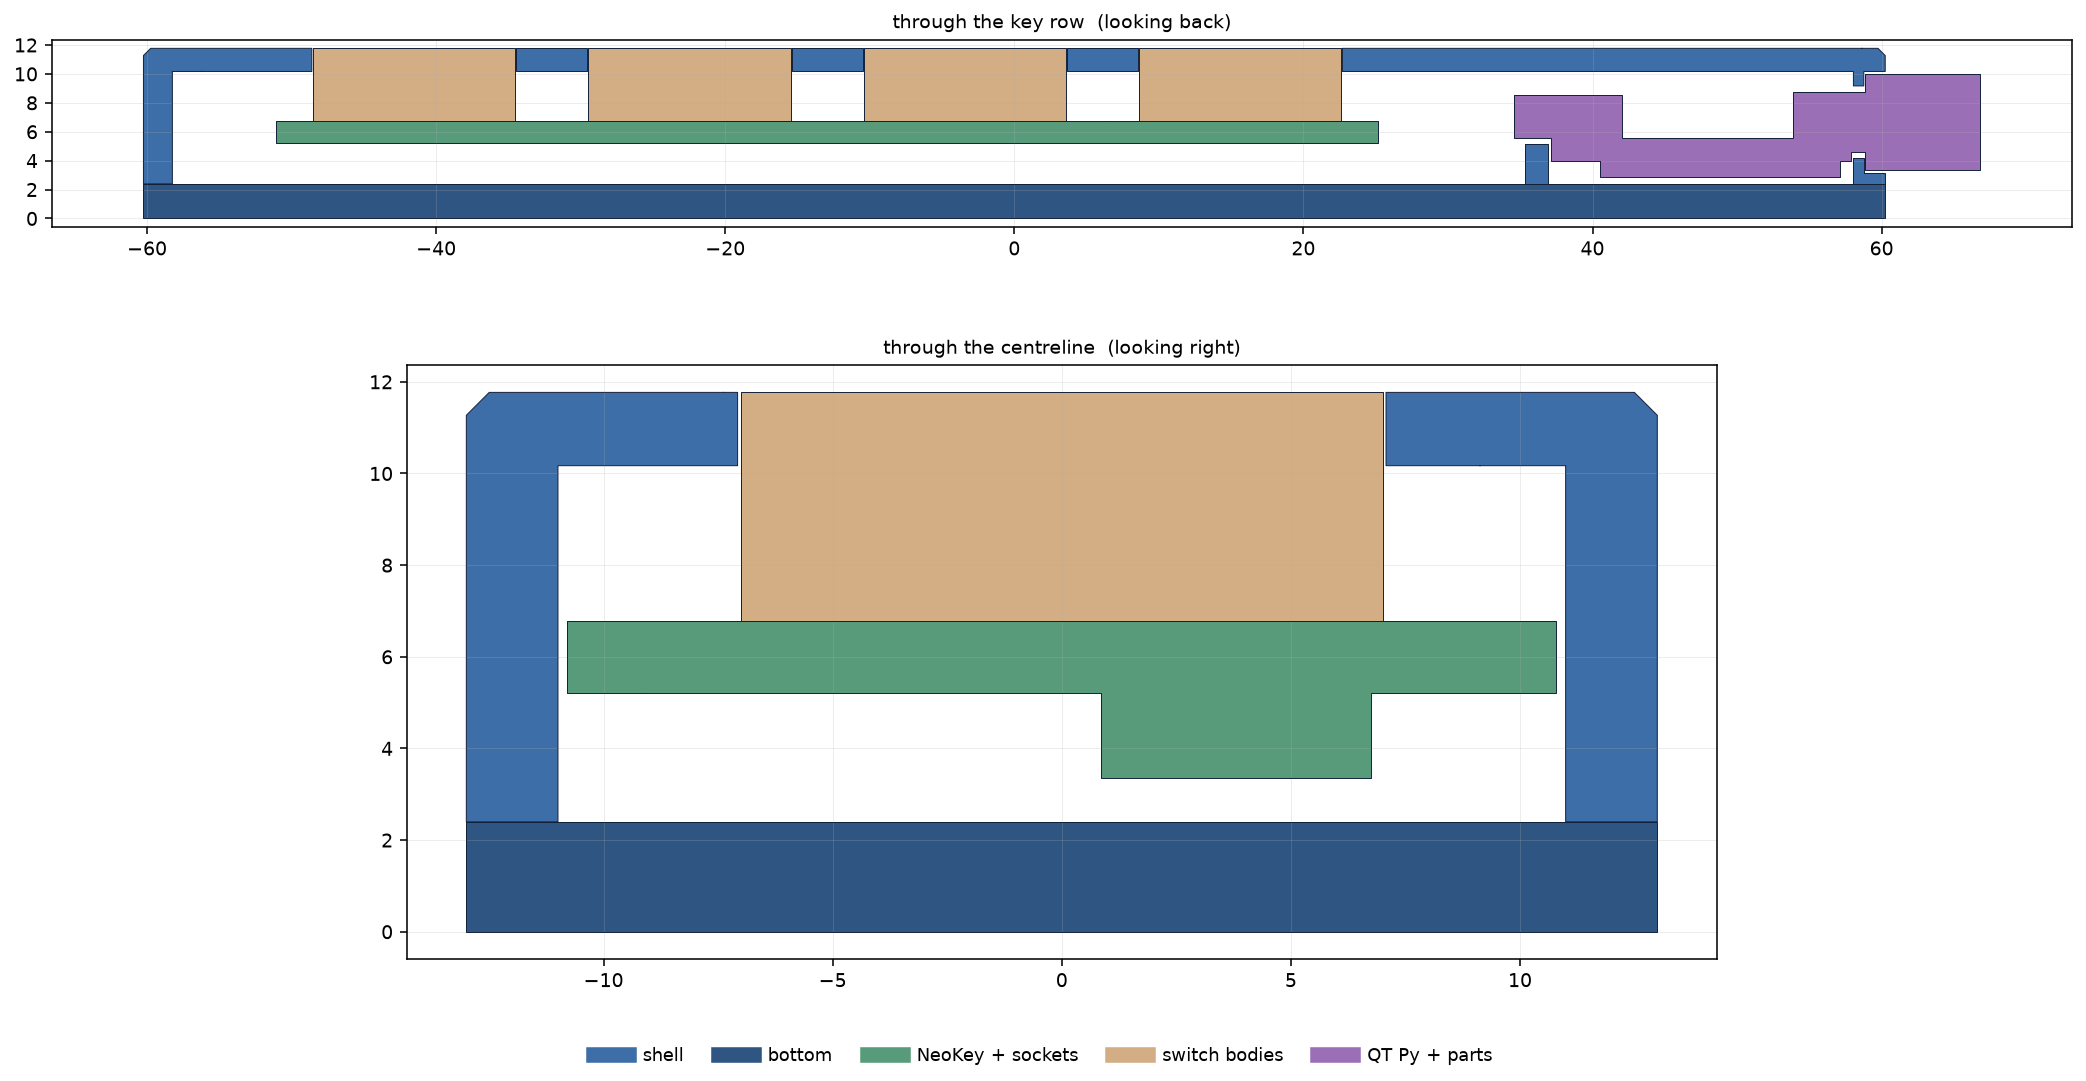
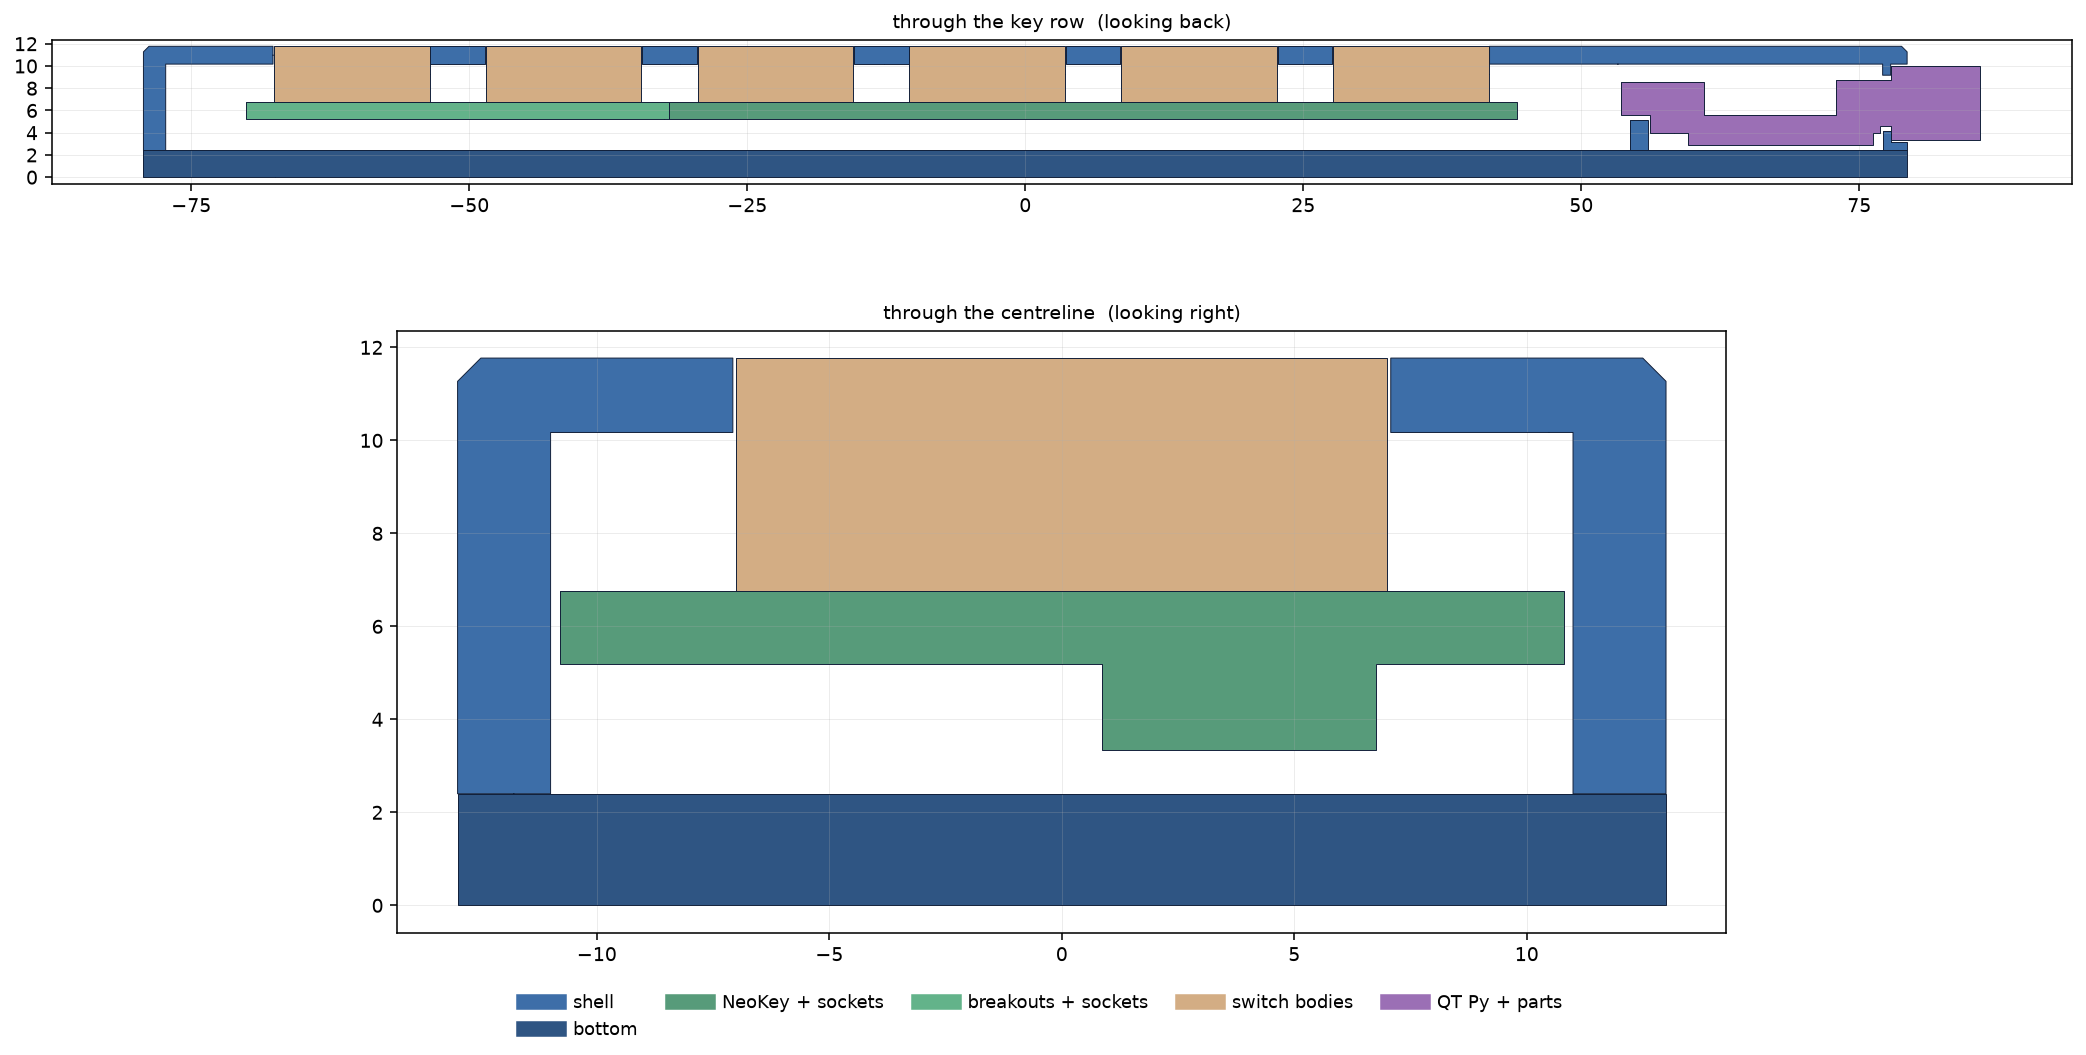
Redraw the figures, and teach the section view the third board
build.py only rewrites STLs, so every PNG in out/ was still the four-key
case -- the most convincing kind of stale, because it looks finished.

- section.py died with KeyError: 'breakouts + sockets'. It carries its
  own colour table keyed by the mock's part names, and adding a part to
  the mock left it behind. The breakouts get a shade off the NeoKey
  rather than a colour of their own: the point of the section is that the
  three boards are one plane, so they should read as one thing with a
  seam
- Regenerate product, shell, bottom, coupon and sections for both
  layouts

The section through the key row is now the clearest statement of the
design: one board plane from -70.1 to +44.2 with a seam at -32.0, which
is where the shell's standoffs come down.

diff --git a/case/section.py b/case/section.py
@@ -30,6 +30,10 @@ STYLE = {
     "shell": ("#3d6ea8", 1.0),
     "bottom": ("#2f5583", 1.0),
     "NeoKey + sockets": ("#1f7a4d", 0.75),
+    # A shade off the NeoKey rather than a colour of their own: the point
+    # of the section is that the three boards are one plane, so they
+    # should read as one thing with a seam, not as two kinds of part.
+    "breakouts + sockets": ("#2f9a63", 0.75),
     "switch bodies": ("#b06a1f", 0.55),
     "QT Py + parts": ("#7a3f9c", 0.75),
 }
